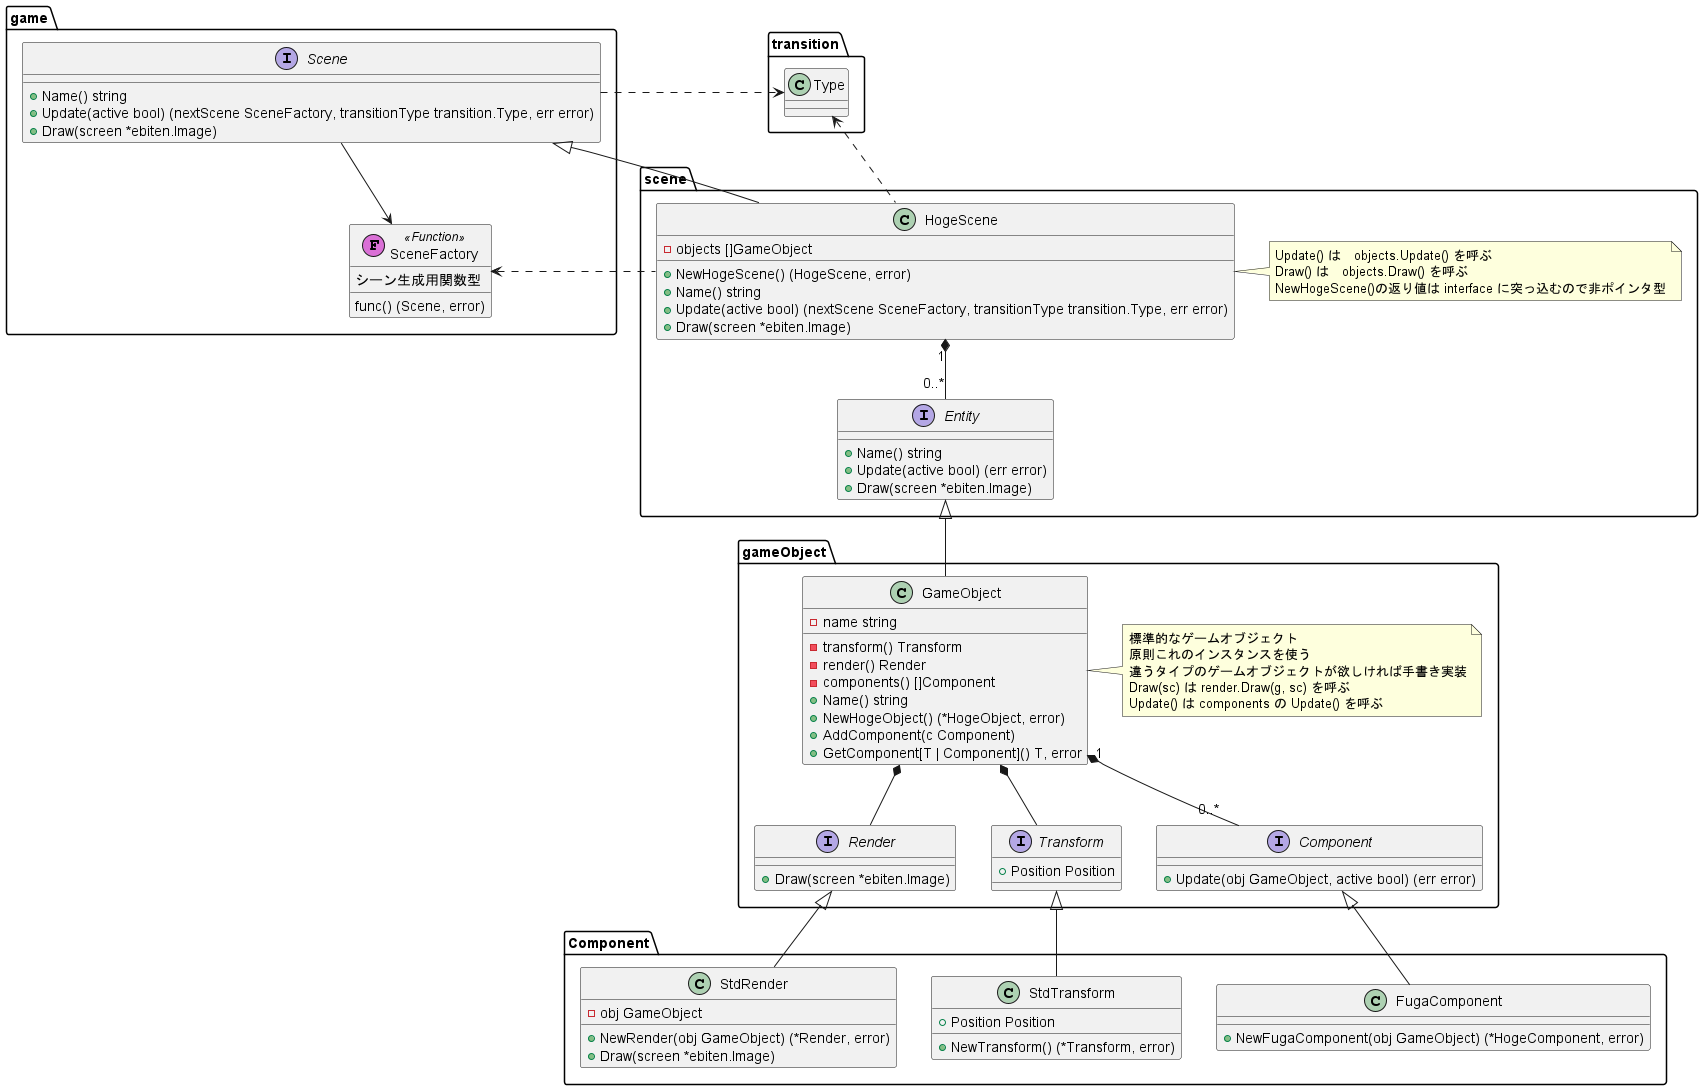
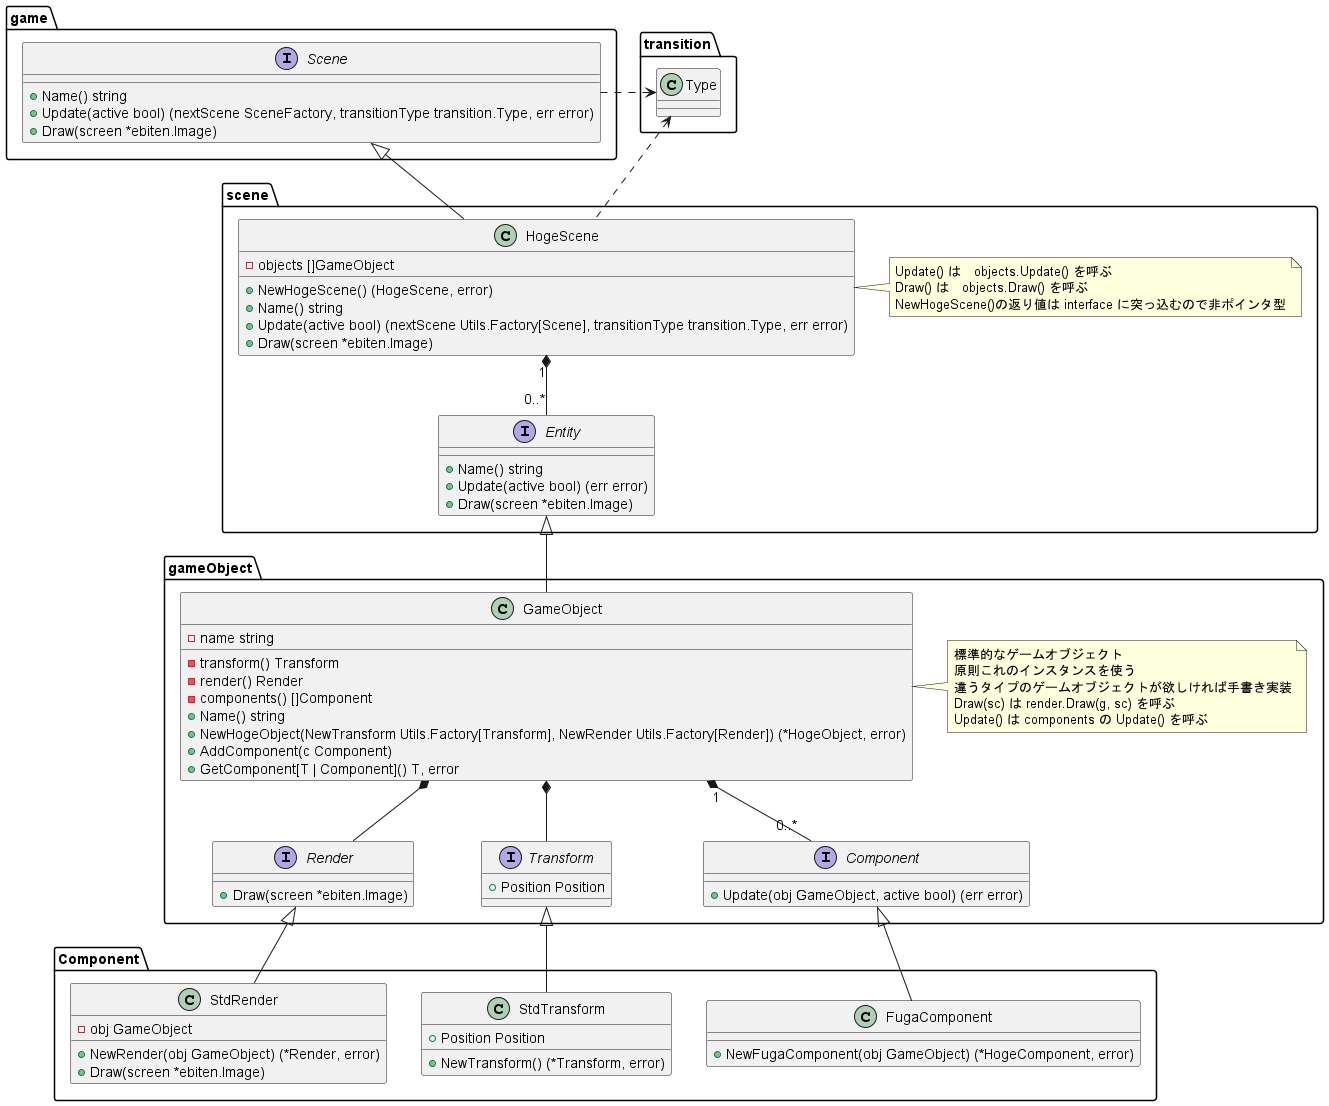
複数発生した Factory 系関数型を Utils にまとめた
合わせてクラス図も更新

diff --git a/Source/GameObject/GameObject.go b/Source/GameObject/GameObject.go
@@ -2,6 +2,7 @@ package gameobject
 
 import (
 	scene "Gamedev_Tempura-of-p--Phenylazo-phenol/Source/Scene"
+	"Gamedev_Tempura-of-p--Phenylazo-phenol/Source/Utils"
 	"fmt"
 	"reflect"
 
@@ -39,7 +40,7 @@ func (g GameObject) Draw(screen *ebiten.Image) {
 	g.render().Draw(g, screen)
 }
 
-func NewHogeObject(NewTransform TransformFactory, NewRender RenderFactory) (*GameObject, error) {
+func NewHogeObject(NewTransform Utils.Factory[Transform], NewRender Utils.Factory[Render]) (*GameObject, error) {
 	t, err := NewTransform()
 	if err != nil {
 		return nil, fmt.Errorf("NewTransform() でエラーが発生しました。\n %w", err)
@@ -49,8 +50,8 @@ func NewHogeObject(NewTransform TransformFactory, NewRender RenderFactory) (*Gam
 		return nil, fmt.Errorf("NewRender() でエラーが発生しました。\n %w", err)
 	}
 	h := GameObject{
-		tf: *t,
-		rd: *r,
+		tf: t,
+		rd: r,
 	}
 	return &h, nil
 }

diff --git a/Source/Scene/PlayScene.go b/Source/Scene/PlayScene.go
@@ -3,6 +3,7 @@ package scene
 import (
 	game "Gamedev_Tempura-of-p--Phenylazo-phenol/Source/Game"
 	transition "Gamedev_Tempura-of-p--Phenylazo-phenol/Source/Scene/SceneTransitionType"
+	"Gamedev_Tempura-of-p--Phenylazo-phenol/Source/Utils"
 	"fmt"
 
 	"github.com/hajimehoshi/ebiten/v2"
@@ -29,7 +30,7 @@ func (s PlayScene) Draw(screen *ebiten.Image) {
 }
 
 // Update implements [Scene].
-func (s PlayScene) Update(active bool) (nextScene game.SceneFactory, transitionType transition.Type, err error) {
+func (s PlayScene) Update(active bool) (nextScene Utils.Factory[game.Scene], transitionType transition.Type, err error) {
 	// なにもしない
 	return
 }

diff --git a/Source/Game/Scene.go b/Source/Game/Scene.go
@@ -2,14 +2,13 @@ package game
 
 import (
 	transition "Gamedev_Tempura-of-p--Phenylazo-phenol/Source/Scene/SceneTransitionType"
+	"Gamedev_Tempura-of-p--Phenylazo-phenol/Source/Utils"
 
 	"github.com/hajimehoshi/ebiten/v2"
 )
 
 type Scene interface {
 	Name() string
-	Update(active bool) (nextScene SceneFactory, transitionType transition.Type, err error)
+	Update(active bool) (nextScene Utils.Factory[Scene], transitionType transition.Type, err error)
 	Draw(screen *ebiten.Image)
 }
-
-type SceneFactory func() (Scene, error)

diff --git a/Source/GameObject/Render.go b/Source/GameObject/Render.go
@@ -7,5 +7,3 @@ import (
 type Render interface {
 	Draw(obj GameObject, scene *ebiten.Image)
 }
-
-type RenderFactory func() (*Render, error)

diff --git a/Source/GameObject/Transform.go b/Source/GameObject/Transform.go
@@ -2,5 +2,3 @@ package gameobject
 
 type Transform interface {
 }
-
-type TransformFactory func() (*Transform, error)

diff --git a/Source/Utils/Factory.go b/Source/Utils/Factory.go
@@ -1,0 +1,3 @@
+package Utils
+
+type Factory[T any] func() (T, error)
